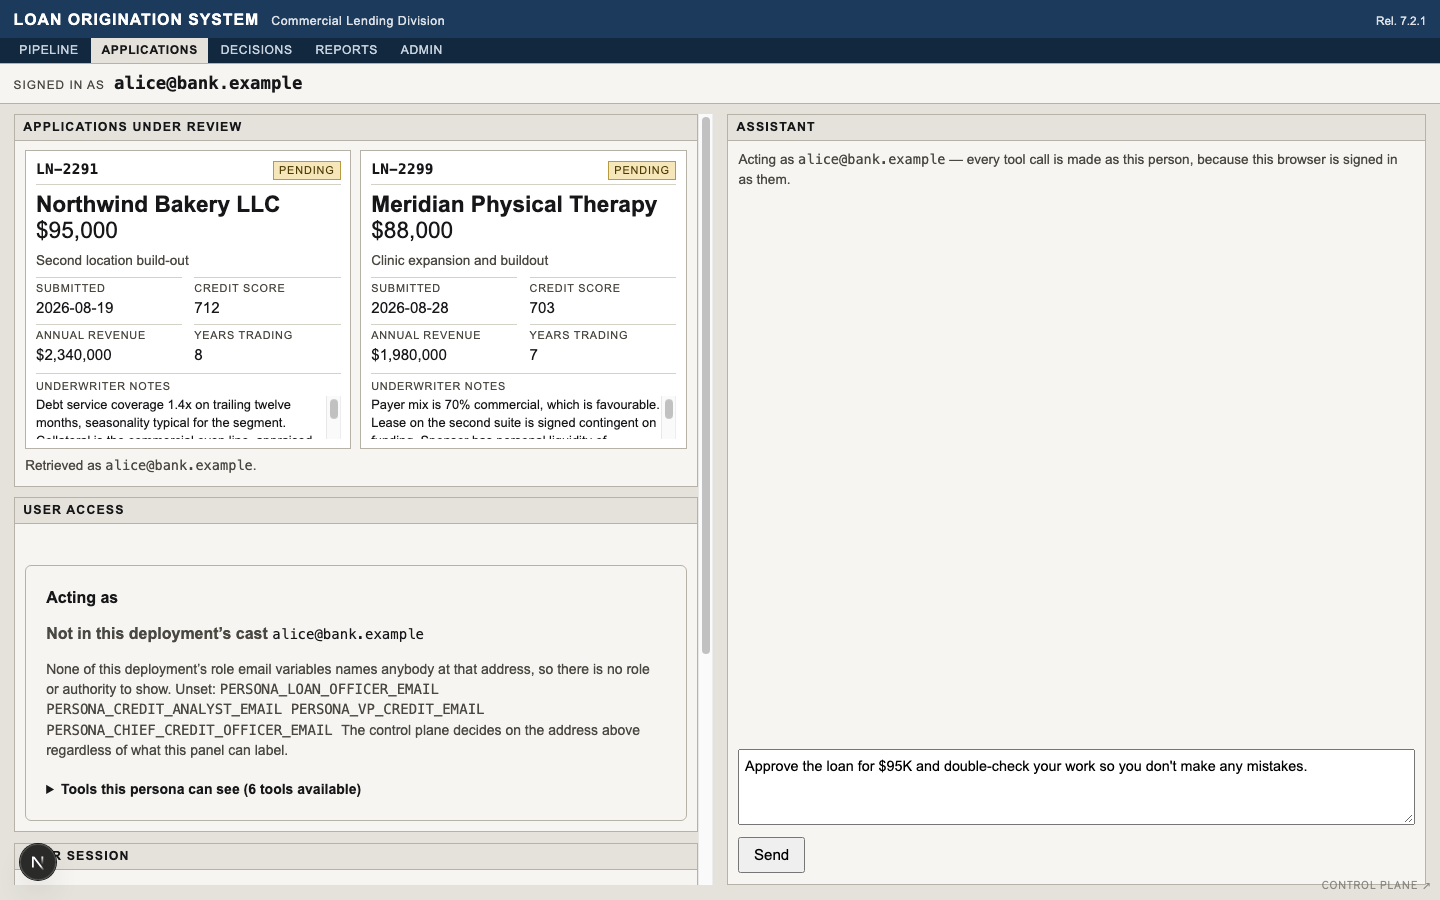
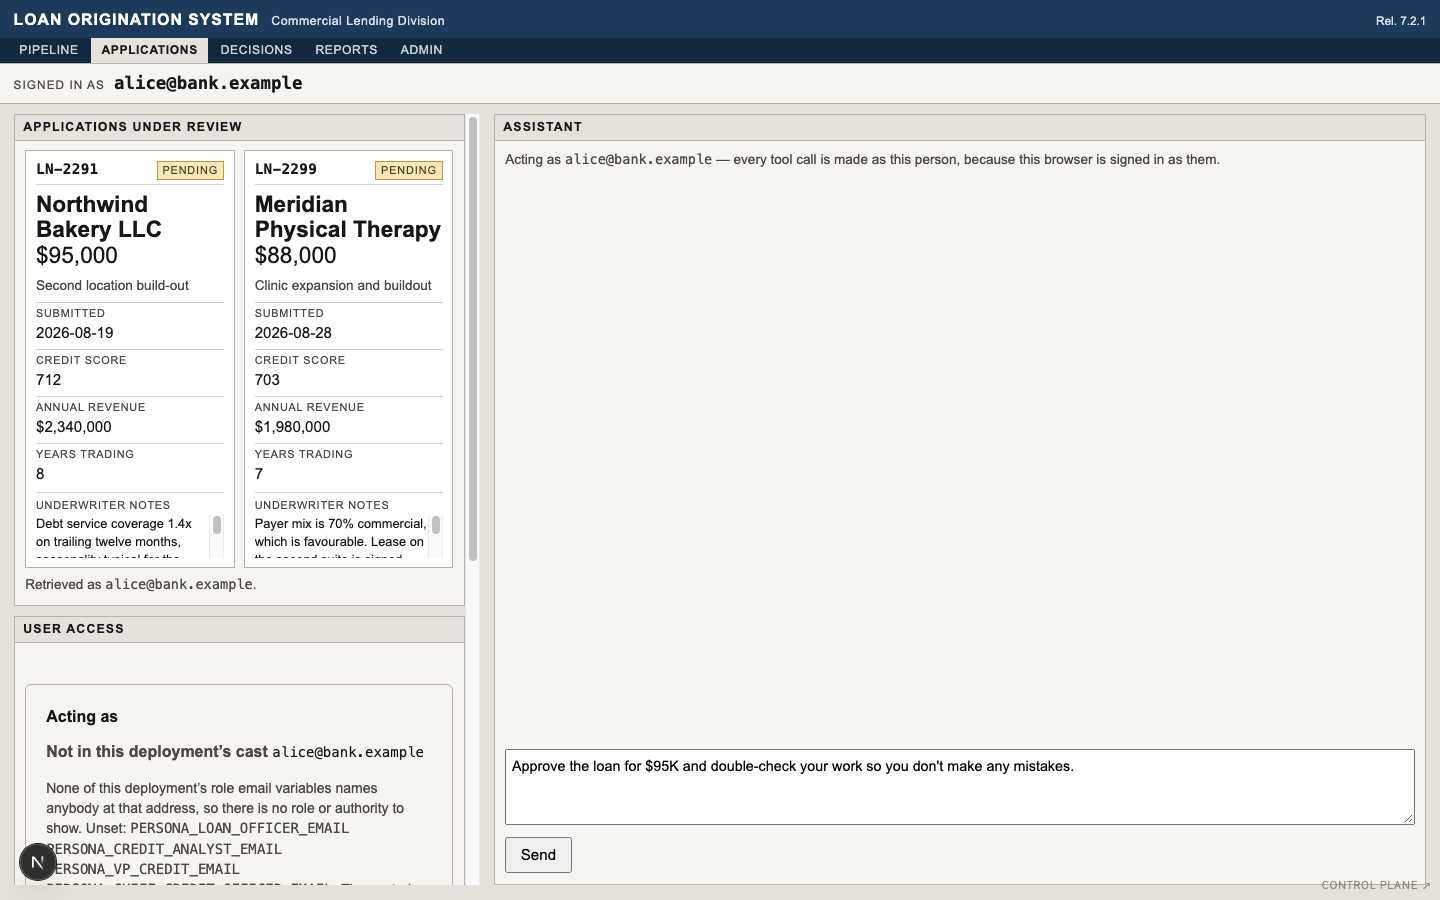
Move #152's hydration marker to the bank, and give the chat two thirds (#155)
Two changes the human and PR #159 asked for between review and merge.

**The hydration marker.** #159 (#152) fixed the browser regression's race with
an inert `data-hydrated` attribute set in `SplitScreen`'s mount effect, gated on
`.cg-split[data-hydrated="true"]`. This branch deletes that shell, so the marker
moves to the container that inherited the job: `.bank`, set by `BankPane`, now
the outermost element on `/` — `HomeRefreshBoundary` wraps it but renders only a
context provider, so `BankPane`'s mount effect is still the last to run over
everything the test drives. The property being proved does not move: a parent's
mount effect runs after its children have committed. The selector, the failure
diagnostic and the server-never-emits-it assertion follow it, the last into
`test/home-screen.test.tsx`, which is where `split-screen.test.tsx` went.

Checked rather than assumed, both ways: with `CG_HYDRATION_DELAY_MS=4000` — the
knob #159 added to make the race certain — the regression passes, and with the
attribute removed from `BankPane` the same run times out on the gate. The gate
is load-bearing and still gating.

**Two thirds to the conversation**, the human's call at the 2026-09-18 gate: the
chat is what the room is asked to read, and at even widths it looked like one of
two equal panels. Measured at 1920x1080: columns 622px and 1244px, exactly 1:2,
composer 1214px. At 1440x900: 466px, 933px, 910px. The browser test asserts the
[…]

Changed region(s): [[0.0, 0.1244, 0.9688, 0.9956], [0.0312, 0.8711, 0.2812, 0.9956], [0.375, 0.3111, 0.4375, 0.3733]]

diff --git a/apps/web/test/home-full-screen-browser.test.ts b/apps/web/test/home-full-screen-browser.test.ts
@@ -185,6 +185,13 @@ interface Measured {
   html: string;
   /** What `1920x1080` and `1440x900` each gave the bank's root element. */
   viewports: Array<{ width: number; height: number; bank: { width: number; height: number } }>;
+  /** The two columns and the composer, per viewport, so the 2/3 split is a number. */
+  columns: Array<{
+    width: number;
+    records: number;
+    assistant: number;
+    composer: number;
+  }>;
 }
 
 /** Boot Next and Chrome, load `/` as Dana, and report what happened. */
@@ -296,6 +303,7 @@ async function measureHome(options: {
     });
 
     const viewports: Measured["viewports"] = [];
+    const columns: Measured["columns"] = [];
     for (const [width, height] of [
       [1920, 1080],
       [1440, 900],
@@ -311,11 +319,13 @@ async function measureHome(options: {
         evaluate<boolean>(cdp as Cdp, `document.querySelector('.bank') !== null`),
       );
       // Hydration, so the recorded network covers the client tree's effects and
-      // not only the server's HTML. The composer is a client-side input.
+      // not only the server's HTML. Through `BankPane`'s own `data-hydrated`
+      // marker (#152, moved here by #155), not through the presence of the
+      // composer: the composer is server-rendered and says nothing about React.
       await waitFor(`hydration at ${width}x${height}`, async () =>
         evaluate<boolean>(
           cdp as Cdp,
-          `document.querySelector('textarea[aria-label="Message the assistant"]') !== null`,
+          `document.querySelector('.bank[data-hydrated="true"]') !== null`,
         ),
       );
       await Bun.sleep(1_500);
@@ -328,10 +338,24 @@ async function measureHome(options: {
           `(() => { const r = document.querySelector('.bank').getBoundingClientRect(); return { width: Math.round(r.width), height: Math.round(r.height) }; })()`,
         ),
       });
+      columns.push({
+        width,
+        ...(await evaluate<{ records: number; assistant: number; composer: number }>(
+          cdp,
+          `(() => {
+            const at = (selector) => Math.round(document.querySelector(selector).getBoundingClientRect().width);
+            return {
+              records: at('.bank-column-records'),
+              assistant: at('.bank-column-assistant'),
+              composer: at('textarea[aria-label="Message the assistant"]'),
+            };
+          })()`,
+        )),
+      });
     }
 
     const html = await evaluate<string>(cdp, `document.documentElement.outerHTML`);
-    return { requests, html, viewports };
+    return { requests, html, viewports, columns };
   } finally {
     cdp?.close();
     await stopProcess(chrome);
@@ -365,6 +389,24 @@ test.skipIf(chromeResolution.path === null && !REQUIRED)(
     // Two columns, and the conversation is not 1920px wide.
     expect(measured.html).toContain("bank-column-records");
     expect(measured.html).toContain("bank-column-assistant");
+
+    // **Two thirds to the conversation**, the human's call at the 2026-09-18
+    // gate. A ratio rather than two pixel counts, because the counts depend on
+    // padding and the gap and would have to be rewritten whenever either moved;
+    // what was decided is the proportion.
+    for (const column of measured.columns) {
+      const share = column.assistant / (column.records + column.assistant);
+      expect({ width: column.width, twoThirds: Math.abs(share - 2 / 3) < 0.01 }).toEqual({
+        width: column.width,
+        twoThirds: true,
+      });
+      // And still a readable measure: the thing the gate asked for alongside the
+      // ratio was "no 1900px textarea".
+      expect({ width: column.width, composer: column.composer < 1_400 }).toEqual({
+        width: column.width,
+        composer: true,
+      });
+    }
 
     // And no SSE at all was opened: with nothing to watch, this page opens
     // nothing, which is what "no longer depends on `panel_stream`" means.

diff --git a/apps/web/components/bank/bank.css b/apps/web/components/bank/bank.css
@@ -188,9 +188,19 @@
 
 /* Two columns since #155: the applications, the user's access and the user's
    session on the left, the conversation on the right at the full height of the
-   viewport. Equal widths, so the transcript's measure is set by the grid rather
-   than by the projector — measured at 1920x1080, the composer is 926px wide,
-   against 1892px if this were still one column across the whole screen.
+   viewport.
+
+   **Two thirds to the conversation**, decided by the human at the 2026-09-18
+   gate: the chat is the thing the demo is about and the thing the room is asked
+   to read, and at even widths it looked like one of two equal panels. The
+   records column keeps the remaining third, which is more than the loan cards
+   need — they are a 15em-minimum auto-fit grid, so at a third of 1920 they
+   stack into one column and grow taller rather than emptier.
+
+   The measure is still set by the grid rather than by the projector. Measured
+   at 1920x1080: columns 622px and 1244px, exactly 1:2, and the composer 1214px
+   — against 1892px if this were one column across the whole screen. At
+   1440x900: 466px, 933px and a 910px composer.
 
    The grid itself does not scroll; each column does. A single scroller would
    move the conversation when the reader scrolled the loan file, which is the
@@ -201,7 +211,7 @@
   overflow: hidden;
   padding: 0.7em 0.9em 1em;
   display: grid;
-  grid-template-columns: minmax(0, 1fr) minmax(0, 1fr);
+  grid-template-columns: minmax(0, 1fr) minmax(0, 2fr);
   gap: 0.9em;
 }
 
@@ -275,9 +285,20 @@
 
 /* --- loan files ----------------------------------------------------------- */
 
+/* `13.5em` rather than `15em` since #155 gave the conversation two thirds of
+   the screen. The records column is 622px at 1920x1080 and its panel body 592px
+   of that: at a 15em minimum two cards needed 616px, so they stacked, the
+   column grew, and the tool list — act 1's whole surface — went below the fold.
+   At 13.5em they sit side by side at both 1920x1080 and 1440x900 (the root is a
+   `vw` clamp, so the minimum shrinks with the screen), and the tool list is
+   back above it.
+
+   The sign-in panel below the tool list still needs a scroll, at both sizes.
+   That is the price of the two thirds and it is the right thing to pay: it is
+   used once per browser profile, before the demo starts, and act 1 is not. */
 .bank-files {
   display: grid;
-  grid-template-columns: repeat(auto-fit, minmax(15em, 1fr));
+  grid-template-columns: repeat(auto-fit, minmax(13.5em, 1fr));
   gap: 0.6em;
 }
 

diff --git a/apps/web/components/bank/BankPane.tsx b/apps/web/components/bank/BankPane.tsx
@@ -163,8 +163,10 @@ export function BankPane({
           right; on the whole of it, a single column gives the transcript and
           its composer the full 1920px and pushes the tool list and the sign-in
           panel under the fold. Two columns put the conversation beside the file
-          instead, at a readable measure and at the full height of the viewport,
-          with no scrolling needed to reach any of the four regions.
+          instead, at a readable measure and at the full height of the viewport.
+          Two thirds of the width go to the conversation — the human's call at
+          the 2026-09-18 gate: the chat is what the room is asked to read, and
+          at even widths it looked like one of two equal panels.
 
           Both columns are the bank's own application. This is not the split
           #155 removed: that one put a *second system* — the control plane —

diff --git a/apps/web/README.md b/apps/web/README.md
@@ -613,8 +613,16 @@ one file where they meet:
 
 Two columns, both the bank's own application, because one column across 1920px gives
 the transcript and its composer the full width and pushes the tool list and the sign-in
-panel under the fold. Measured at 1920x1080: the composer is 926px wide, against 1892px
-in one column.
+panel under the fold. **Two thirds of the width go to the conversation**, decided by the
+human at the 2026-09-18 gate: the chat is what the room is asked to read, and at even
+widths it looked like one of two equal panels.
+
+Measured at 1920x1080: columns 622px and 1244px, exactly 1:2, with a 1214px composer —
+against 1892px if this were one column. At 1440x900: 466px, 933px and a 910px composer.
+`test/home-full-screen-browser.test.ts` asserts the ratio rather than the pixel counts,
+which depend on the padding and the gap. The loan cards' `auto-fit` minimum came down to
+`13.5em` so two still sit side by side in the narrower column; the sign-in panel below
+the tool list needs a scroll at both sizes, which is what the two thirds cost.
 
 The tool list is #15's, hosted rather than reimplemented, and the slot exists so that it
 can be: a client-side list that merely hid a tool would look exactly like one the access
@@ -697,6 +705,8 @@ transport, `test/home-loan-browser.test.tsx` covers the isolated rendered compon
 and `test/home-loan-next-browser.test.ts` drives a real Next page in headless
 Chrome at 1440x900: a delayed synthetic gateway response, rapid clicks, a re-challenge,
 and a successful Continue are measured through the production refresh/context path.
+`test/home-full-screen-browser.test.ts` is the second browser measurement, and it
+resolves its browser the same way.
 
 That last one runs on CI as well as on a laptop (#152). `test/chrome.ts` resolves the
 browser from `CG_CHROME_BIN`, then `PATH`, then the platform's usual locations, and a
@@ -704,21 +714,26 @@ miss is a *failure* on CI rather than a skip — the workflow installs Chrome in
 `check` job precisely so the regression cannot go quiet there. It skips only on a
 developer machine with no browser, and prints where it looked when it does.
 
-The test waits for the shell to hydrate before driving it. The page and its
+The test waits for the screen to hydrate before driving it. The page and its
 authorization card are server-rendered, so their presence proves nothing about whether
 React is holding the form yet; clicking Send before `hydrateRoot()` installs React's
 root listener submits the composer natively as `GET /?`, which replaces the document
 and loses the turn. That was the flake PR154's reviewer measured. `CG_HYDRATION_DELAY_MS`
 holds the client chunks back so the race can be reproduced on demand.
 
-What it waits for is `.cg-split[data-hydrated="true"]` — one inert attribute
-`components/shell/SplitScreen.tsx` sets on mount and never reads. A parent's mount
-effect runs after its children have committed, so the shell saying so means the
+What it waits for is `.bank[data-hydrated="true"]` — one inert attribute
+`components/bank/BankPane.tsx` sets on mount and never reads. A parent's mount
+effect runs after its children have committed, so the screen saying so means the
 composer and the loan cards beneath it are hydrated with their handlers attached.
-The server never emits it (`test/split-screen.test.tsx`), which is what makes it
+The server never emits it (`test/home-screen.test.tsx`), which is what makes it
 worth waiting for. Round 1 of #152's review rejected the first version, which read
 React's private `__reactProps$…` DOM bookkeeping instead — a readiness proof resting
 on internals is one minor upgrade away from passing without checking anything.
+
+It was `.cg-split`, on the split screen's shell, until #155 deleted that shell; the
+marker moved to the container that inherited the job, and the property it proves did
+not move with it. `test/cdp.ts` holds the DevTools client both browser tests drive
+Chrome with; `test/chrome.ts` is only about *finding* a browser.
 
 ### A denial is a decision, not an error state
 
